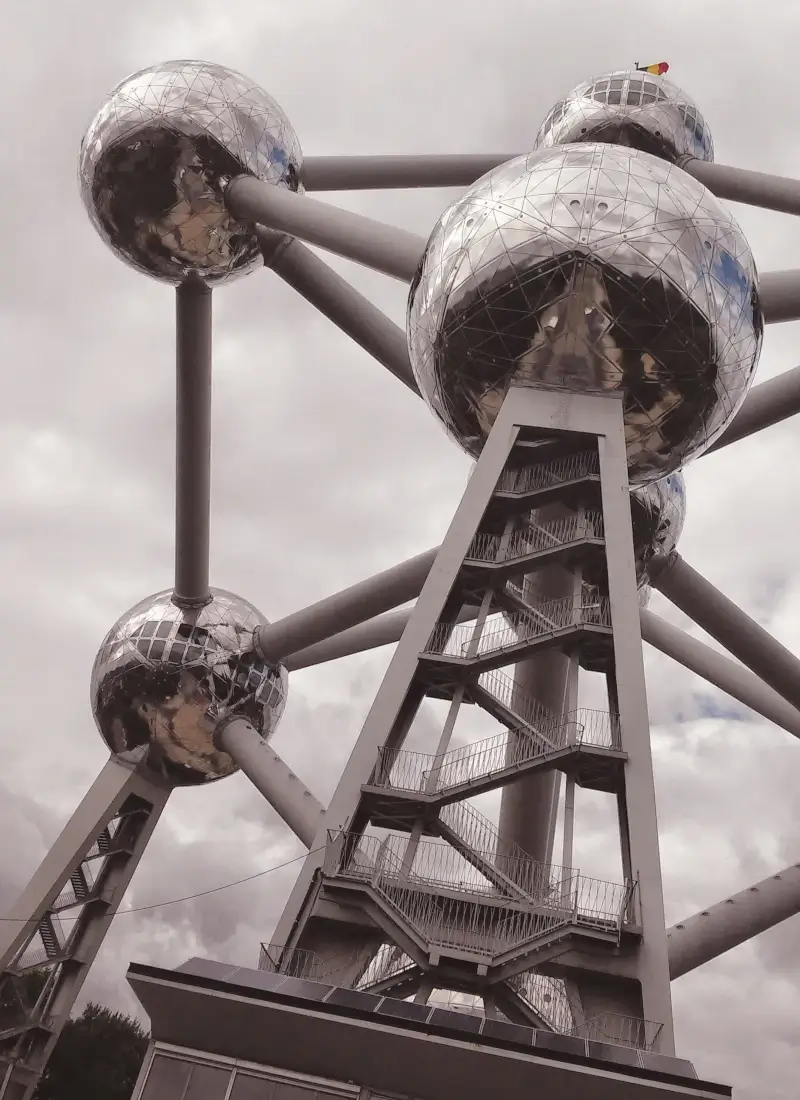
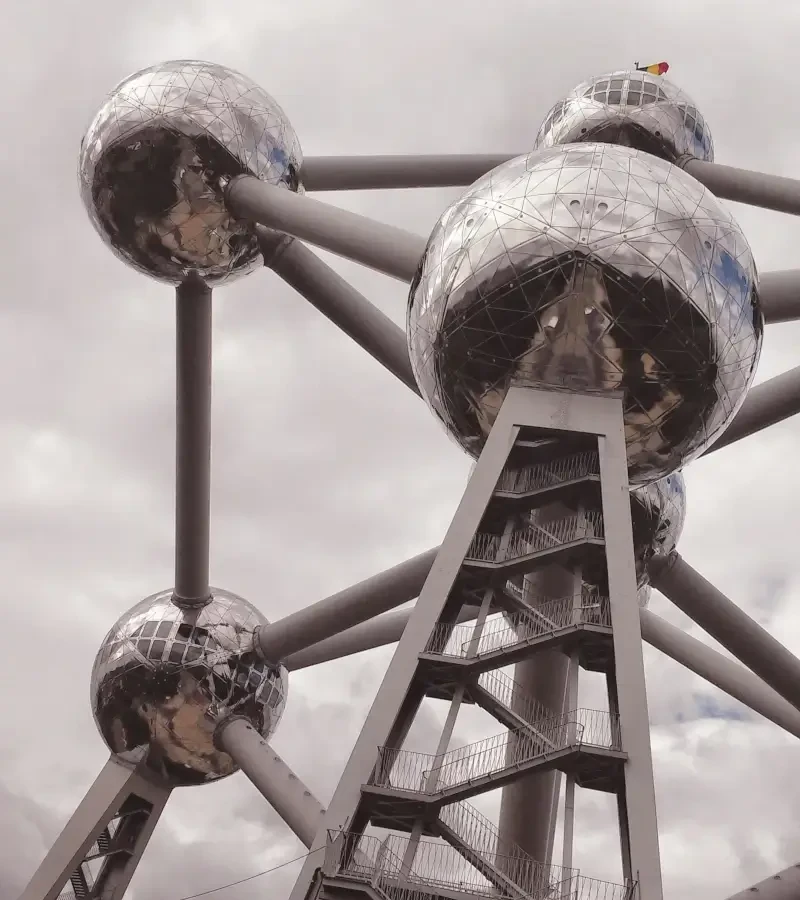
country page most html and css

diff --git a/styles/place.css b/styles/place.css
@@ -1,79 +1,115 @@
+@import url('https://fonts.googleapis.com/css2?family=Lugrasimo&family=Montserrat:ital,wght@0,100..900;1,100..900&display=swap');
+
+h1, h2{
+    font-family: "Lugrasimo", Helvetica, sans-serif;
+}
+
+p, li{
+    font-family: "Montserrat", Helvetica, sans-serif;
+}
+
 @media screen and (max-width: 800px){
 
     .containerTitle{
         text-align: center;
     }
+
+    li{
+        font-size: 20px;
+        white-space: nowrap;
+    }
 }
 
-@media screen and (min-width: 800px){
+@media screen and (min-width: 1200px){
     
     main{
         display: grid;
-        grid-template-columns: 1fr 2fr 1fr;
+        grid-template-columns: 3fr 5fr 3fr;
         grid-template-rows: 2fr 1fr 1fr;
+        position: relative;
     }
 
     picture{
         grid-column: 1/4;
         grid-row: 1/4;
-    }
+    }  
 
     .container{
-        background-color: #ffffffaa
+        background-color: #ffffffaa;
+        position: absolute;
+        width: 100%;
+        height: 100%;
     }
 
     .containerTitle{
-        background-color: #ff0000aa;
+        background-color: #ff0000;
+        border-bottom: 6px solid #ffff00;
         margin-right: 40px;
     }
 
     #dataContainer{
         grid-column: 1/2;
         grid-row: 1/3;
-        margin-top: 40px;
-        margin-left: 40px;
+        margin: 40px;
     }
 
     #weatherContainer{
         grid-column: 3/4;
         grid-row: 2/4;
-        margin-right: 40px;
-        margin-bottom: 40px;
+        margin: -40px;
     }
+
+    li{
+        font-size: calc(0.7vw + 10px);
+        white-space: nowrap;
+    }
+}
+
+:root{
+    background-color: black;
 }
 
 body{
     margin: 0px;
     padding: 0px;
+    background-color: white;
 }
 
 header{
     background-color: black;
-    border-bottom: 10px solid #ff0000;
+    border-bottom: 20px solid #ff0000;
     overflow: hidden;
 }
 
 h1{
     font-size: 64px;
     text-align: center;
-    color: yellow;
-    padding: 10px;
+    color: #ffff00;
+    padding: 0px;
+    margin: 40px;
+}
+
+main{
+    border-bottom: 20px solid #ff0000;
 }
 
 img{
     width: 100%;
     height: auto;
+    display: block;
 }
 
 .container{
     display: grid;
     grid-template-columns: 1fr 1fr;
-    grid-template-rows: 150px 1fr;
+    grid-template-rows: 100px 1fr;
 }
 
 h2{
     padding: 20px;
-    font-size: 38px;
+    margin-top: 20px;
+    margin-bottom: 0px;
+    font-size: 32px;
 }
 
 .containerTitle{
@@ -83,10 +119,17 @@ h2{
 .containerListL{
     text-align: right;
     font-weight: bold;
+    padding-left: 0;
 }
 
 .containerListR{
     text-align: left;
+    padding-left: 0;
+}
+
+li{
+    padding: 5px;
+    color: #222222;
 }
 
 li::marker{
@@ -95,9 +138,8 @@ li::marker{
 
 footer{
     background-color: black;
-    margin-top: 30px;
-    padding: 20px;
-    overflow: hidden;
+    margin-top: -5px;
+    padding: 30px;
 }
 
 footer p{

diff --git a/place.html b/place.html
@@ -17,8 +17,8 @@
 
     <main>
         <picture>
-            <source srcset="images/atomium-large.webp" media="(min-width: 1280px)" width="1920" height="900">
-            <source srcset="images/atomium-large.webp" media="(min-width: 800px)" width="1280" height="600">
+            <source srcset="images/atomium-large.webp" media="(min-width: 1280px)" width="1920" height="800">
+            <source srcset="images/atomium-large.webp" media="(min-width: 800px)" width="1200" height="500">
             <img src="images/atomium-small.webp" alt="Atomium" width="800" height="1100">
         </picture>
 
@@ -38,7 +38,7 @@
                 <li>30,688 km²</li>
                 <li>11,711,343</li>
                 <li>Brussels</li>
-                <li>Dutch, French, German</li>
+                <li>Dutch, French</li>
                 <li>Euro</li>
                 <li>(GMT+2)</li>
                 <li>+32</li>
